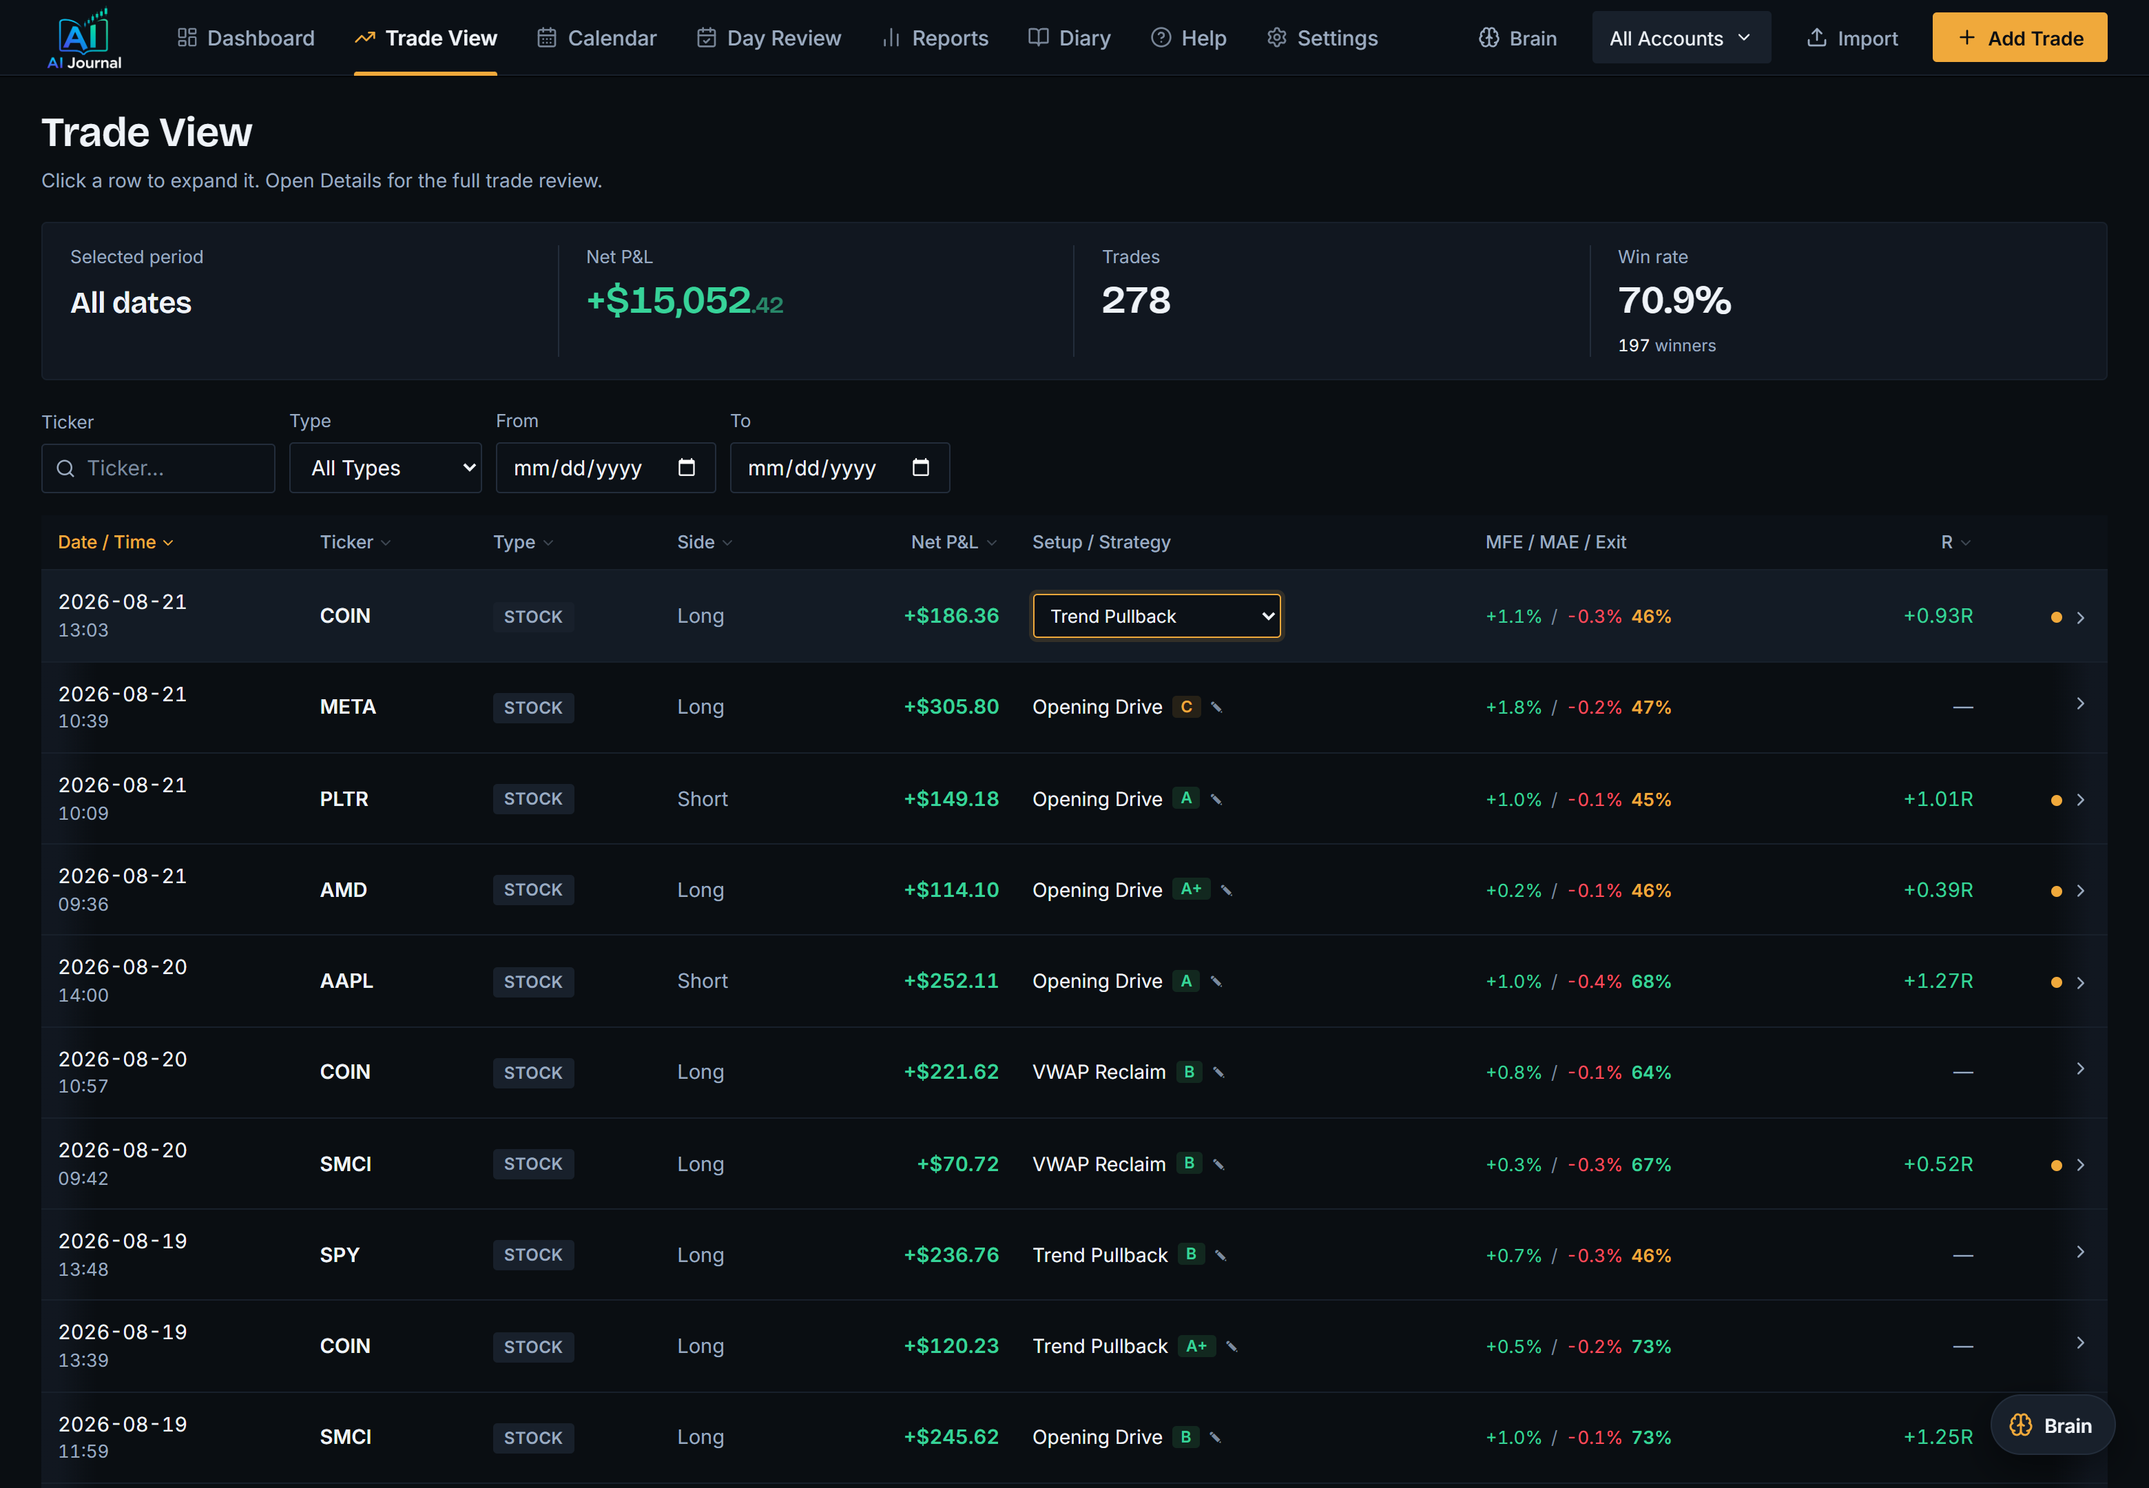
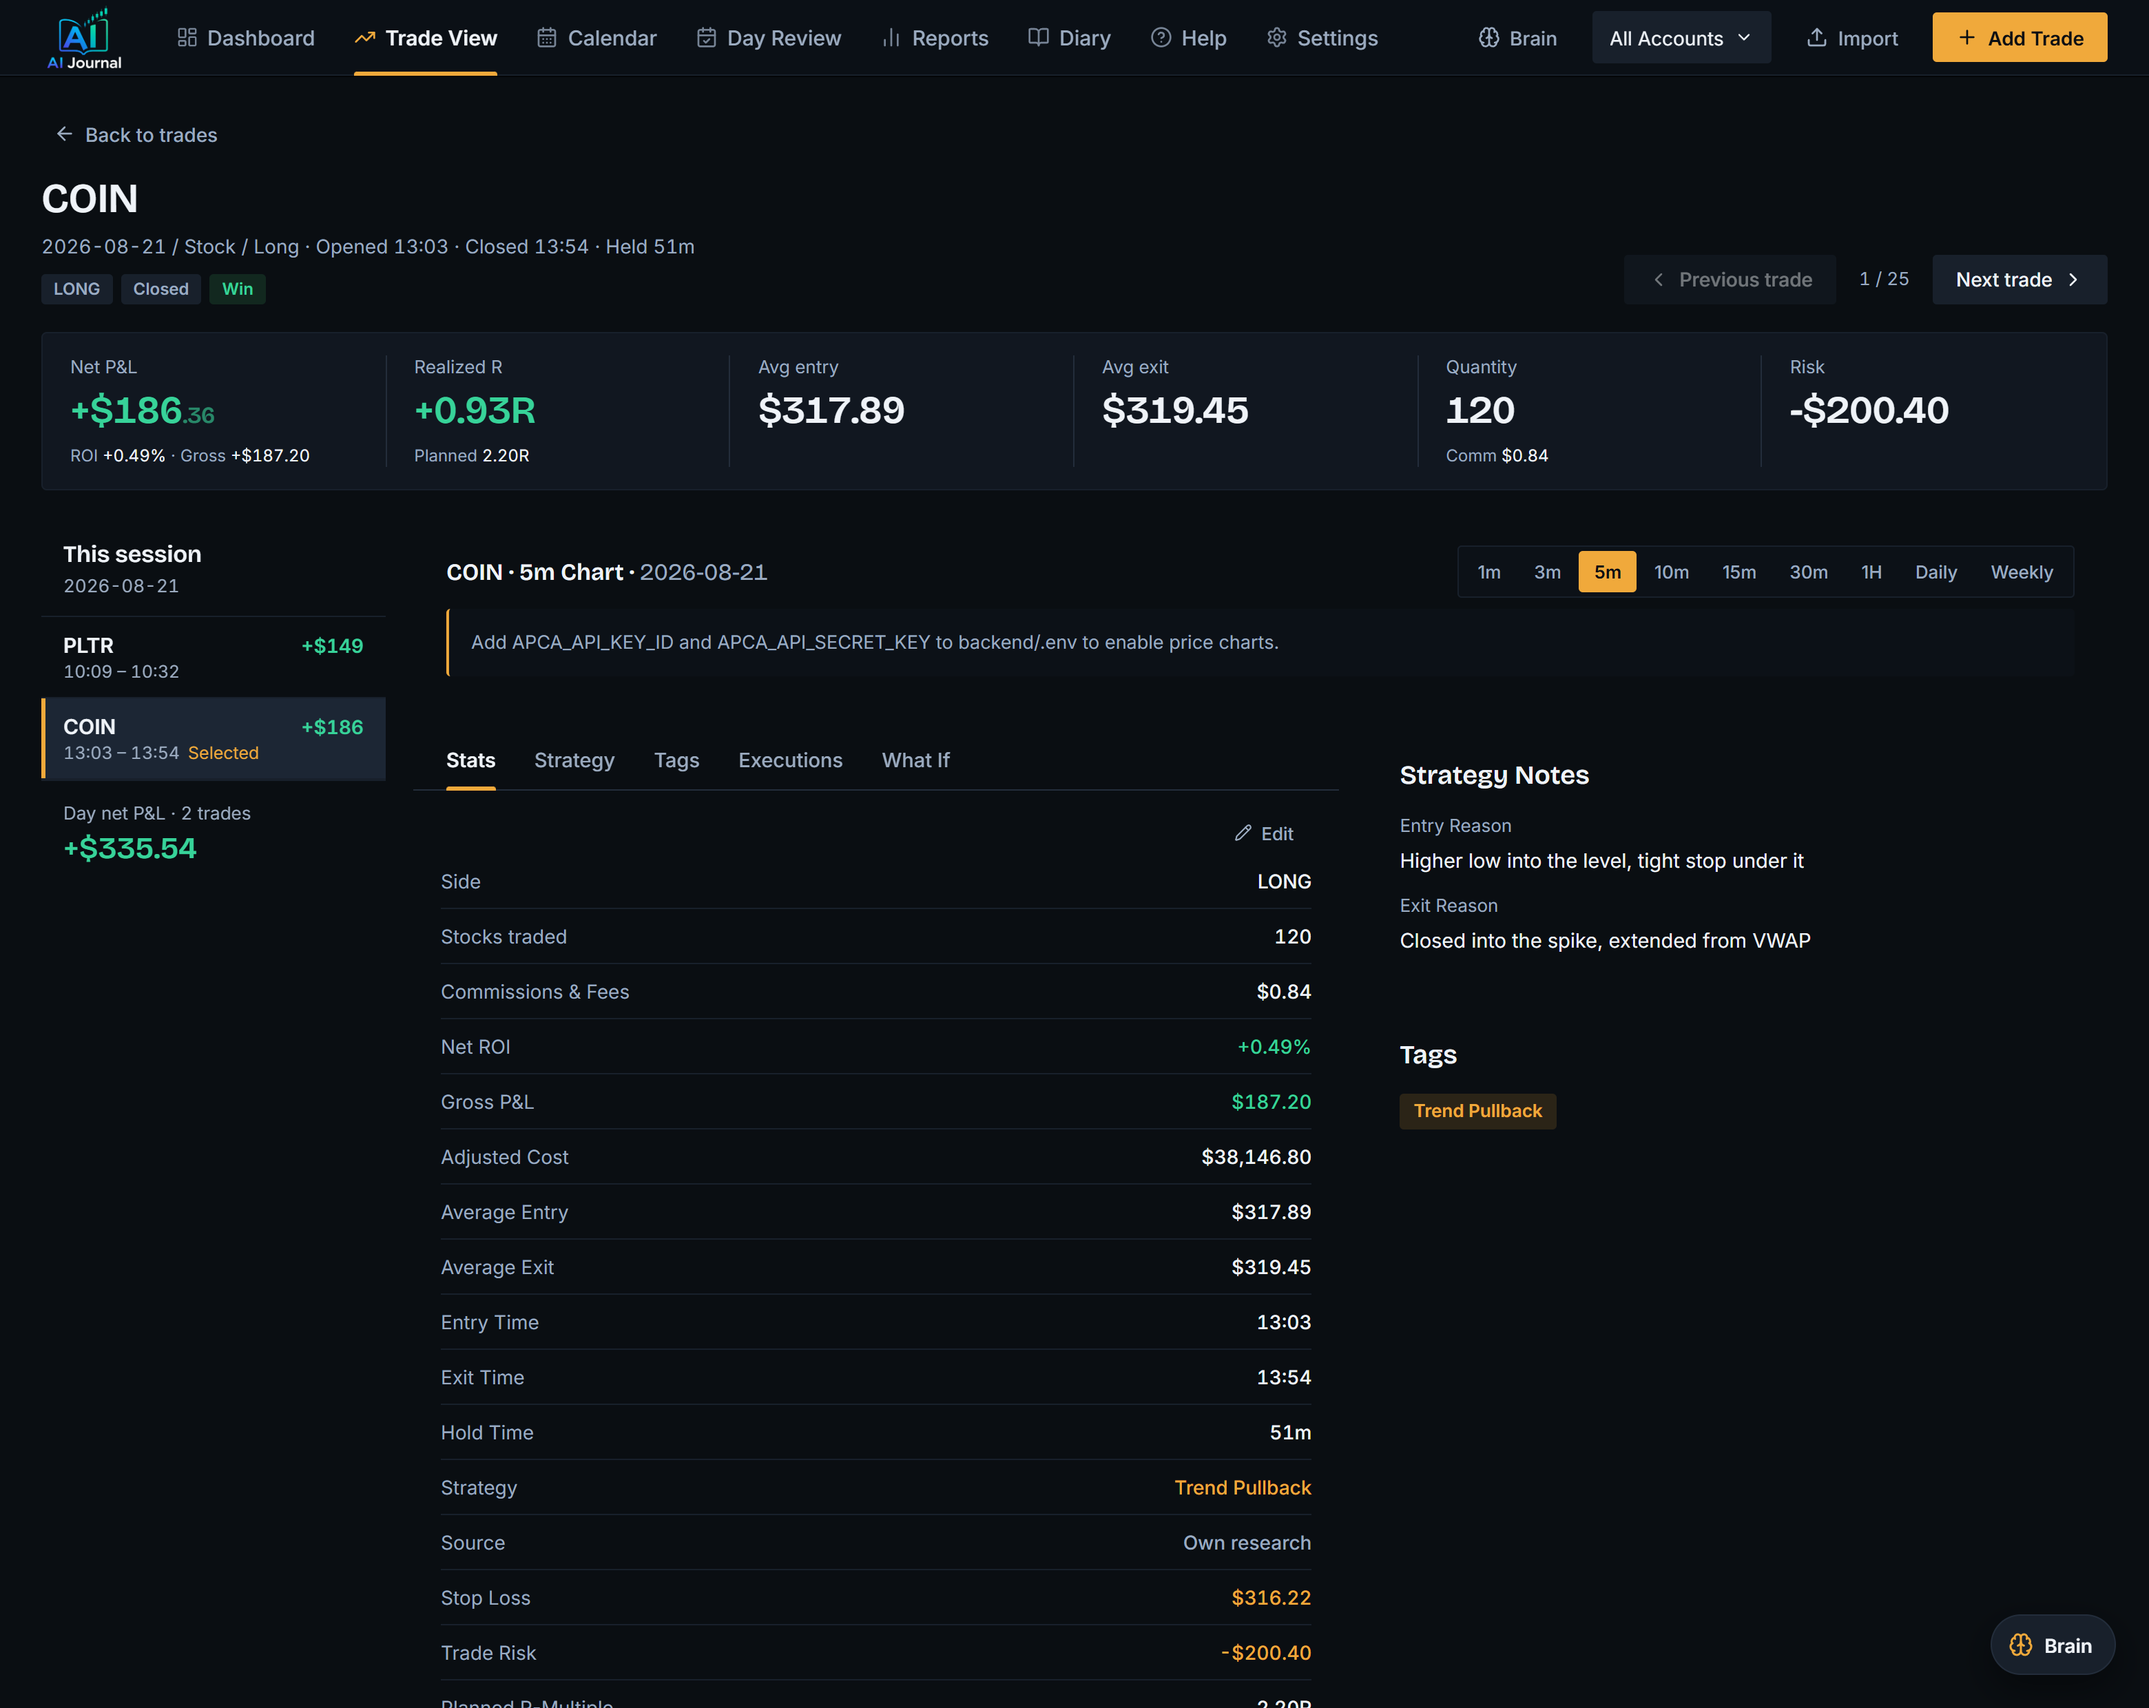
Fix the Trade Details screenshot, and two things it exposed
The screenshot showed Trade View, not Trade Details: the capture clicked
mid-row, which lands on the Setup column. That column is an editable select
that stops propagation, so the row never navigated. It clicks the ticker cell
now and asserts it reached the detail page before capturing.

Two real fixes it surfaced:
- Trade View still said "Click a row to expand it. Open Details for the full
  trade review." The expand was removed in V3.
- Without Alpaca keys the chart placeholder reserved the full height of a
  chart, leaving a tall empty box on every trade. Most fresh clones have no
  keys. It is a single line now.

scripts/capture_screenshots.py is included so the shots can be retaken.

diff --git a/frontend/src/components/TradingChart.js b/frontend/src/components/TradingChart.js
@@ -431,9 +431,10 @@ export default function TradingChart({
         <div className="skeleton" style={{ height, borderRadius: 8 }} />
       ) : warning && !bars.length ? (
         <div role="status" style={{
-          height, display: 'flex', alignItems: 'center', justifyContent: 'center',
-          color: 'var(--text-secondary)', fontSize: 14, textAlign: 'center',
-          background: 'var(--surface-inset)', borderRadius: 'var(--radius-md)', padding: 16,
+          display: 'flex', alignItems: 'center', gap: 10,
+          color: 'var(--text-secondary)', fontSize: 13.5,
+          background: 'var(--surface-inset)', borderRadius: 'var(--radius-md)',
+          padding: '14px 16px', borderLeft: '2px solid var(--caution)',
         }}>
           {warning}
         </div>

diff --git a/frontend/src/components/Trades.js b/frontend/src/components/Trades.js
@@ -129,7 +129,7 @@ export default function Trades({ accountId, initialDateFrom = '', initialDateTo 
     <div>
       <PageHeader
         title="Trade View"
-        subtitle="Click a row to expand it. Open Details for the full trade review."
+        subtitle="Click a row to open the trade. The Setup column is editable in place."
       />
 
       <KpiStrip label="Filtered trade summary">

diff --git a/scripts/capture_screenshots.py b/scripts/capture_screenshots.py
@@ -1,0 +1,75 @@
+"""Retake the README screenshots from the running demo.
+
+    launch.bat                     # start the demo on 3010 / 8010 first
+    pip install playwright
+    python scripts/capture_screenshots.py
+
+Writes docs/screenshot-*.png. Everything captured is the synthetic seed from
+scripts/seed_demo.py, never anyone's real trades.
+"""
+from pathlib import Path
+from playwright.sync_api import sync_playwright
+
+OUT = str(Path(__file__).resolve().parents[1] / "docs")
+BASE = "http://localhost:3010"
+W, H = 1560, 1000
+
+
+def nav(page, label):
+    page.get_by_role("button", name=label, exact=True).first.click()
+    page.wait_for_timeout(2600)
+
+
+def shot(page, name, height=None):
+    page.wait_for_timeout(900)
+    path = f"{OUT}/screenshot-{name}.png"
+    if height:
+        page.set_viewport_size({"width": W, "height": height})
+        page.wait_for_timeout(700)
+    page.screenshot(path=path)
+    page.set_viewport_size({"width": W, "height": H})
+    print("wrote", path)
+
+
+with sync_playwright() as pw:
+    b = pw.chromium.launch(channel="chrome")
+    page = b.new_page(viewport={"width": W, "height": H}, device_scale_factor=2)
+    page.goto(BASE, wait_until="networkidle")
+    page.wait_for_timeout(5000)
+
+    # 1. Dashboard
+    shot(page, "dashboard", 1080)
+
+    # 2. Trade View
+    nav(page, "Trade View")
+    shot(page, "trade-view", 1000)
+
+    # 3. Trade detail. Click the TICKER cell: the Setup column is an editable
+    #    select that stops propagation, so a mid-row click never navigates.
+    page.locator("tr.row-link").first.locator("td").nth(1).click()
+    page.wait_for_timeout(4000)
+    page.wait_for_selector("text=Back to trades", timeout=15000)
+    assert page.locator("text=Back to trades").count(), "did not reach the trade detail page"
+    page.wait_for_timeout(1500)
+    shot(page, "trade-detail", 1240)
+
+    # 4. Day Review, stepped back to a day with trades
+    nav(page, "Day Review")
+    page.wait_for_timeout(2500)
+    for _ in range(20):
+        if page.locator(".v3-daymark").count():
+            break
+        page.get_by_role("button", name="Previous").first.click()
+        page.wait_for_timeout(1800)
+    shot(page, "day-review", 1180)
+
+    # 5. Reports
+    nav(page, "Reports")
+    shot(page, "reports", 1080)
+
+    # 6. Settings
+    nav(page, "Settings")
+    shot(page, "settings", 900)
+
+    b.close()
+print("done")
